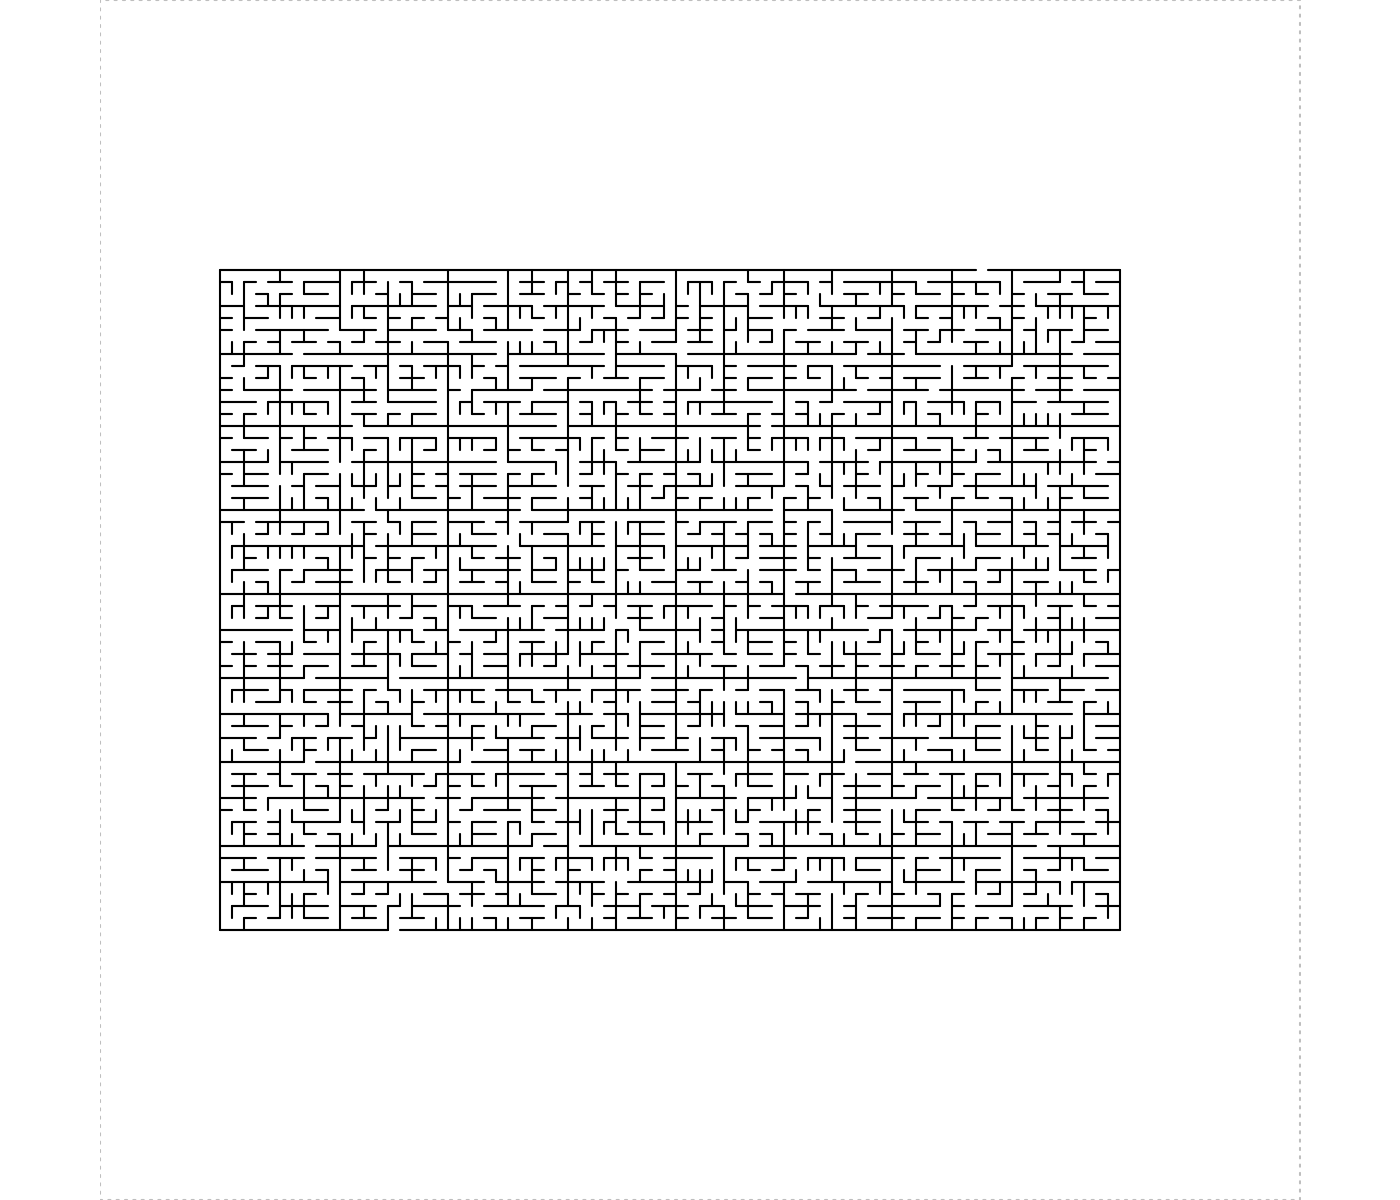
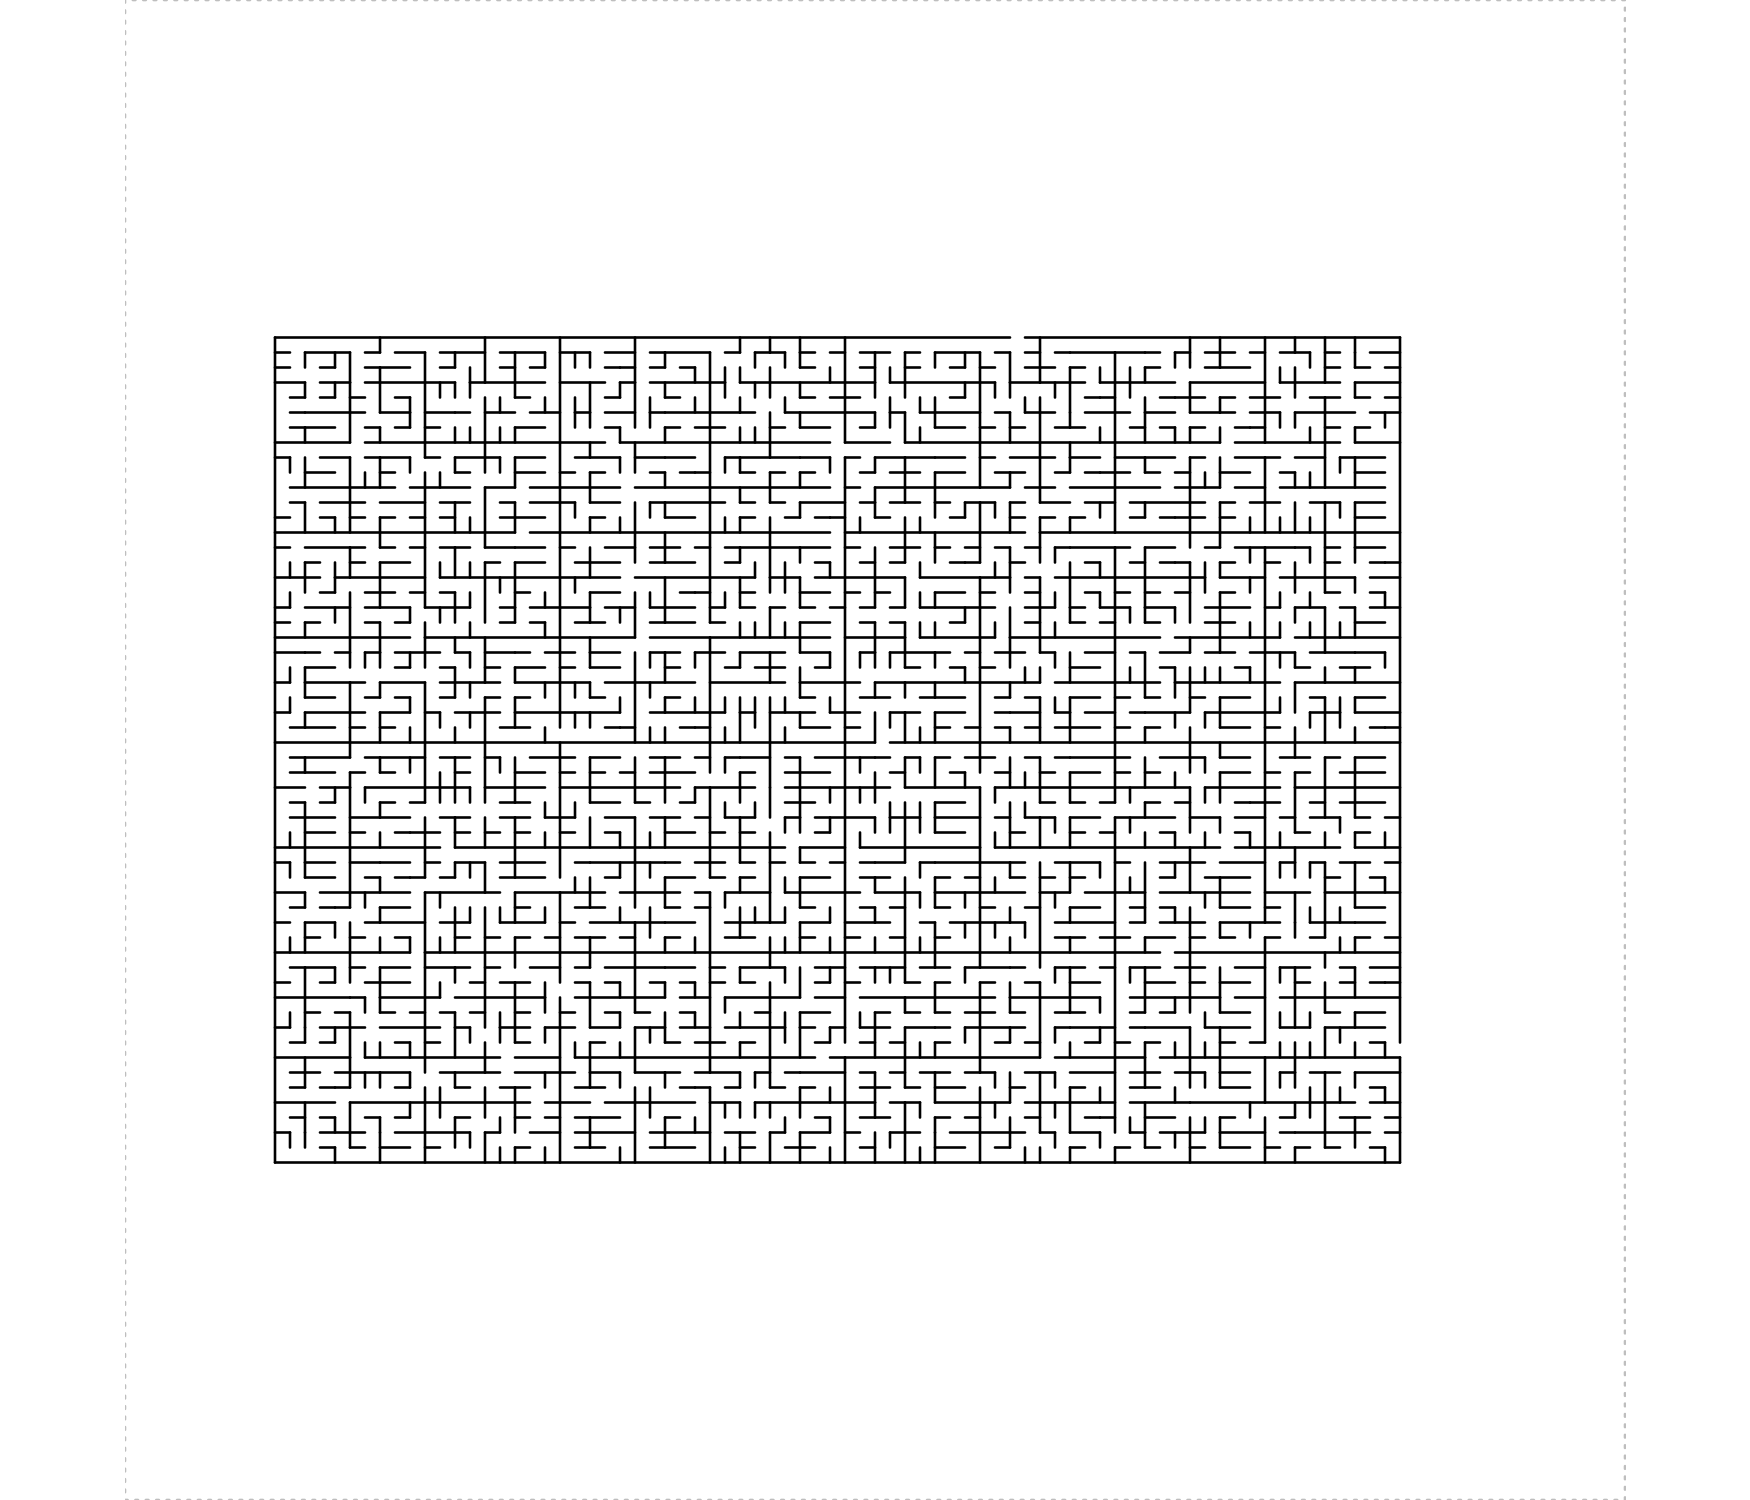
README has figures!

Changed region(s): [[0.1536, 0.2158, 0.7986, 0.8017]]

diff --git a/README.md b/README.md
@@ -9,7 +9,7 @@
 > *Sometimes magic is just someone spending more time on something than anyone else might reasonably expect.* -- Teller
 	
 
-Generate mazes using the recursive method and Turtle graphics.
+Generate mazes recursively via Turtle graphics. 
 
 -- Steven E. Pav, shabbychef@gmail.com
 
@@ -34,6 +34,13 @@ if (require(devtools)) {
 
 # parallelogram maze
 
+The simplest maze to generate recursively is a parallelogram. One can generate
+a parallelogram maze by splitting the domain into two parts by an arbitrary
+cut line with a hole in it, and then recursively creating mazes on both parts. 
+Unlike some shapes, this method applies for arbitrary (integral) side lengths,
+where by 'length' we mean in units of 'hallway widths', what we call the
+`unit_len` in the API. Here is a simple parallelogram maze:
+
 
 ```r
 library(TurtleGraphics)
@@ -50,4 +57,157 @@ turtle_do({
 })
 ```
 
-<img src="man/figures/para_maze-1.png" title="plot of chunk para_maze" alt="plot of chunk para_maze" width="600px" height="500px" />
+<img src="man/figures/para_maze-1.png" title="plot of chunk para_maze" alt="plot of chunk para_maze" width="800px" height="600px" />
+
+# triangle maze
+
+An equilateral triangle maze can be computed in a number of different ways:
+
+  # Create four equilateral mazes with lines with holes between them. This
+	only works if the side length of the original is a power of two.
+	# Cut out a parallelogram and attach two equilateral triangles.
+	Again only if the side length is a power of two.
+	# Create an isosceles trapezoid maze, then stack an equilateral triangle
+	on top of it. This only works if the side length is even.
+	# Create a regular hexagonal maze and three equilateral mazes in the corners.
+	This only works if the side length of the original triangle is divisible by
+	three.
+	# Shave off a single hallway and create an equilateral triangular maze
+	of side length one less than the original.
+
+
+I illustrate them here:
+
+
+```r
+library(TurtleGraphics)
+library(mazealls)
+# uniform method
+turtle_init(1000, 1000)
+turtle_up()
+turtle_hide()
+turtle_do({
+    turtle_left(90)
+    turtle_forward(distance = 300)
+    turtle_right(90)
+    eq_triangle_maze(depth = 6, unit_len = 12, method = "uniform", 
+        draw_boundary = TRUE)
+})
+```
+
+<img src="man/figures/eq_tri_uniform-1.png" title="plot of chunk eq_tri_uniform" alt="plot of chunk eq_tri_uniform" width="800px" height="600px" />
+
+
+```r
+library(TurtleGraphics)
+library(mazealls)
+# stacked trapezoids
+turtle_init(1000, 1000)
+turtle_up()
+turtle_hide()
+turtle_do({
+    turtle_left(90)
+    turtle_forward(distance = 300)
+    turtle_right(90)
+    eq_triangle_maze(depth = 6, unit_len = 12, method = "stack_trapezoids", 
+        draw_boundary = TRUE)
+})
+```
+
+<img src="man/figures/eq_tri_stack-1.png" title="plot of chunk eq_tri_stack" alt="plot of chunk eq_tri_stack" width="800px" height="600px" />
+
+
+```r
+library(TurtleGraphics)
+library(mazealls)
+# four triangles
+turtle_init(1000, 1000)
+turtle_up()
+turtle_hide()
+turtle_do({
+    turtle_left(90)
+    turtle_forward(distance = 300)
+    turtle_right(90)
+    eq_triangle_maze(depth = 6, unit_len = 12, method = "triangles", 
+        draw_boundary = TRUE)
+})
+```
+
+<img src="man/figures/eq_tri_four_tri-1.png" title="plot of chunk eq_tri_four_tri" alt="plot of chunk eq_tri_four_tri" width="800px" height="600px" />
+
+```r
+library(TurtleGraphics)
+library(mazealls)
+# two ears
+turtle_init(1000, 1000)
+turtle_up()
+turtle_hide()
+turtle_do({
+    turtle_left(90)
+    turtle_forward(distance = 300)
+    turtle_right(90)
+    eq_triangle_maze(depth = 6, unit_len = 12, method = "two_ears", 
+        draw_boundary = TRUE)
+})
+```
+
+<img src="man/figures/eq_tri_two_ears-1.png" title="plot of chunk eq_tri_two_ears" alt="plot of chunk eq_tri_two_ears" width="800px" height="600px" />
+
+
+```r
+library(TurtleGraphics)
+library(mazealls)
+# hex and three
+turtle_init(1000, 1000)
+turtle_up()
+turtle_hide()
+turtle_do({
+    turtle_left(90)
+    turtle_forward(distance = 300)
+    turtle_right(90)
+    eq_triangle_maze(depth = log2(66), unit_len = 12, 
+        method = "hex_and_three", draw_boundary = TRUE)
+})
+```
+
+<img src="man/figures/eq_tri_hex_and_three-1.png" title="plot of chunk eq_tri_hex_and_three" alt="plot of chunk eq_tri_hex_and_three" width="800px" height="600px" />
+
+
+```r
+library(TurtleGraphics)
+library(mazealls)
+# shave
+turtle_init(1000, 1000)
+turtle_up()
+turtle_hide()
+turtle_do({
+    turtle_left(90)
+    turtle_forward(distance = 300)
+    turtle_right(90)
+    eq_triangle_maze(depth = log2(66), unit_len = 12, 
+        method = "shave", draw_boundary = TRUE)
+})
+```
+
+<img src="man/figures/eq_tri_shave-1.png" title="plot of chunk eq_tri_shave" alt="plot of chunk eq_tri_shave" width="800px" height="600px" />
+
+
+
+```r
+library(TurtleGraphics)
+library(mazealls)
+# shave all
+turtle_init(1000, 1000)
+turtle_up()
+turtle_hide()
+turtle_do({
+    turtle_left(90)
+    turtle_forward(distance = 300)
+    turtle_right(90)
+    eq_triangle_maze(depth = log2(66), unit_len = 12, 
+        method = "shave_all", draw_boundary = TRUE)
+})
+```
+
+<img src="man/figures/eq_tri_shave_all-1.png" title="plot of chunk eq_tri_shave_all" alt="plot of chunk eq_tri_shave_all" width="800px" height="600px" />
+
